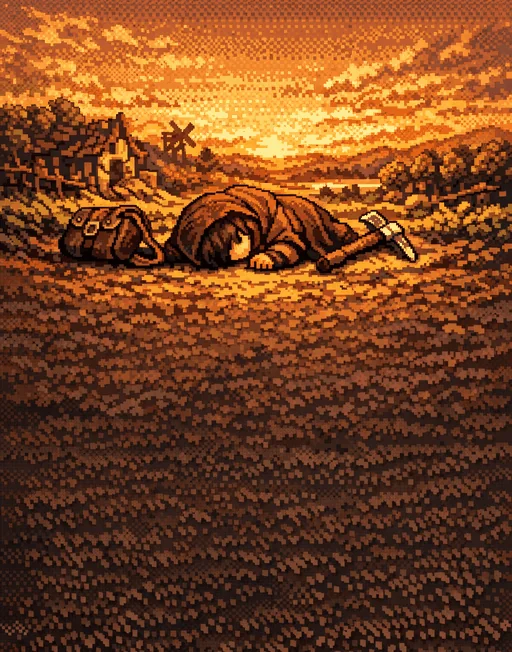
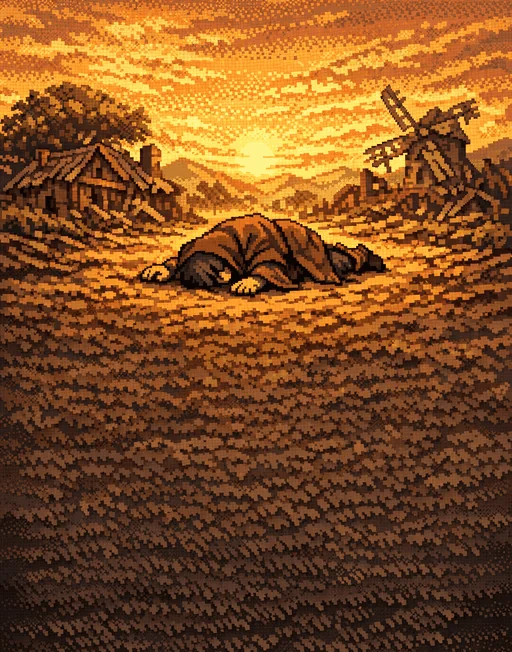
Revival panels show no dropped gear
revive_fall and revive_wake repainted with nothing beside the survivor: a
collapse costs no gear, and the player may own none.

diff --git a/src/art_thumbs.js b/src/art_thumbs.js
@@ -38,9 +38,9 @@ const ART_THUMBS = {
[11 lines of base64/hex data omitted]
@@ -90,9 +90,9 @@ const ART_TONES = {
   restore_market: '#a05e26',
   restore_trader: '#995a27',
   restore_wizard: '#bf7536',
-  revive_fall: '#ab6229',
+  revive_fall: '#b6742d',
   revive_found: '#7e481f',
-  revive_wake: '#9d5f27',
+  revive_wake: '#aa6a32',
   shiny_first: '#9c692b',
   tool_catch: '#bf7a1f',
   tool_chop: '#9c602b',

diff --git a/tools/gen_story_art.js b/tools/gen_story_art.js
@@ -188,8 +188,10 @@ const PIECES = {
   // stands a downed player back up): collapse, found, home. Three panels read in order, so they share a palette and a
   // survivor — the same young survivor in a hooded brown cloak throughout.
   revive_fall: scene(
+    // Nothing dropped beside the body: a collapse costs no gear, and the
+    // player may own none — the picture must not promise either.
     'A young survivor in a hooded brown cloak has collapsed face-down on a dirt path at dusk, ' +
-    'a dropped satchel and pickaxe beside them, the world around dimming and blurring at the ' +
+    'empty-handed, with nothing lying around them, the world around dimming and blurring at the ' +
     'edges as if their eyes are closing.'),
   revive_found: scene(
     'Two villagers - a stout woman holding up a lantern and an older man - kneel beside the ' +
@@ -198,7 +200,8 @@ const PIECES = {
   revive_wake: scene(
     'The young survivor in a hooded brown cloak sits up weakly on a straw bedroll beside a ' +
     'small camper trailer at dawn, wrapped in a blanket, a small campfire crackling, while a ' +
-    'kindly villager hands them a steaming bowl. Relief, home.'),
+    'kindly villager hands them a steaming bowl. No bags, packs or tools anywhere near the ' +
+    'survivor. Relief, home.'),
   home_sell: scene(
     'A rough wooden crate brimming with fresh produce - potatoes, onions, apples and a few ' +
     'carrots - set out on the grass beside a small camper trailer at golden hour, a little ' +

diff --git a/index.html b/index.html
@@ -2622,7 +2622,7 @@
   <script src="src/sandbox.js?v=9f6c9370"></script>
   <script src="src/testtools.js?v=cbd1d4fa"></script>
   <script src="src/geo.js?v=0a205c42"></script>
-  <script src="src/art_thumbs.js?v=961dc650"></script>
+  <script src="src/art_thumbs.js?v=90091edb"></script>
   <script src="src/modal_shell.js?v=79d94b33"></script>
   <script src="src/scene_geo.js?v=1b249ddd"></script>
   <script src="src/scene_creatures.js?v=bcbd1680"></script>

diff --git a/sw.js b/sw.js
@@ -9,7 +9,7 @@
 //      so they're safe to cache forever. Strategy: cache-first with network
 //      fallback. This makes a visited region playable offline.
 
-const SHELL_VERSION = 'shell-e61ad681';
+const SHELL_VERSION = 'shell-a778b0a4';
 const TILE_CACHE    = 'tiles-v1';
 // How old a cached tile may get before it is refreshed IN THE BACKGROUND. It
 // is never an expiry: a stale tile is still served, and a failed refresh keeps
